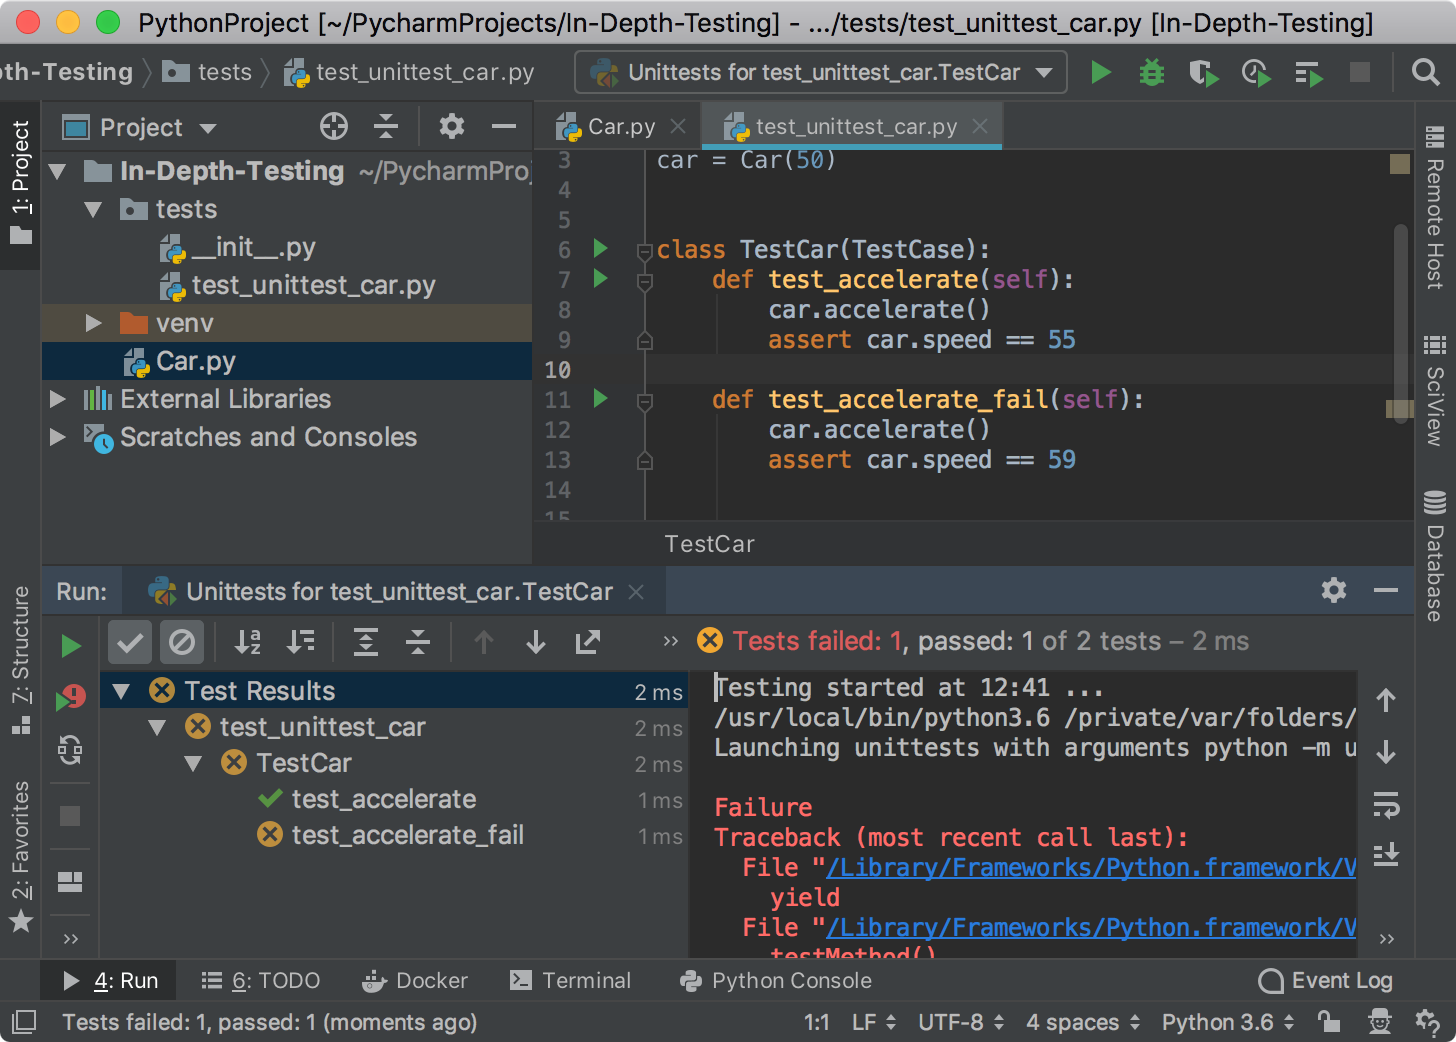
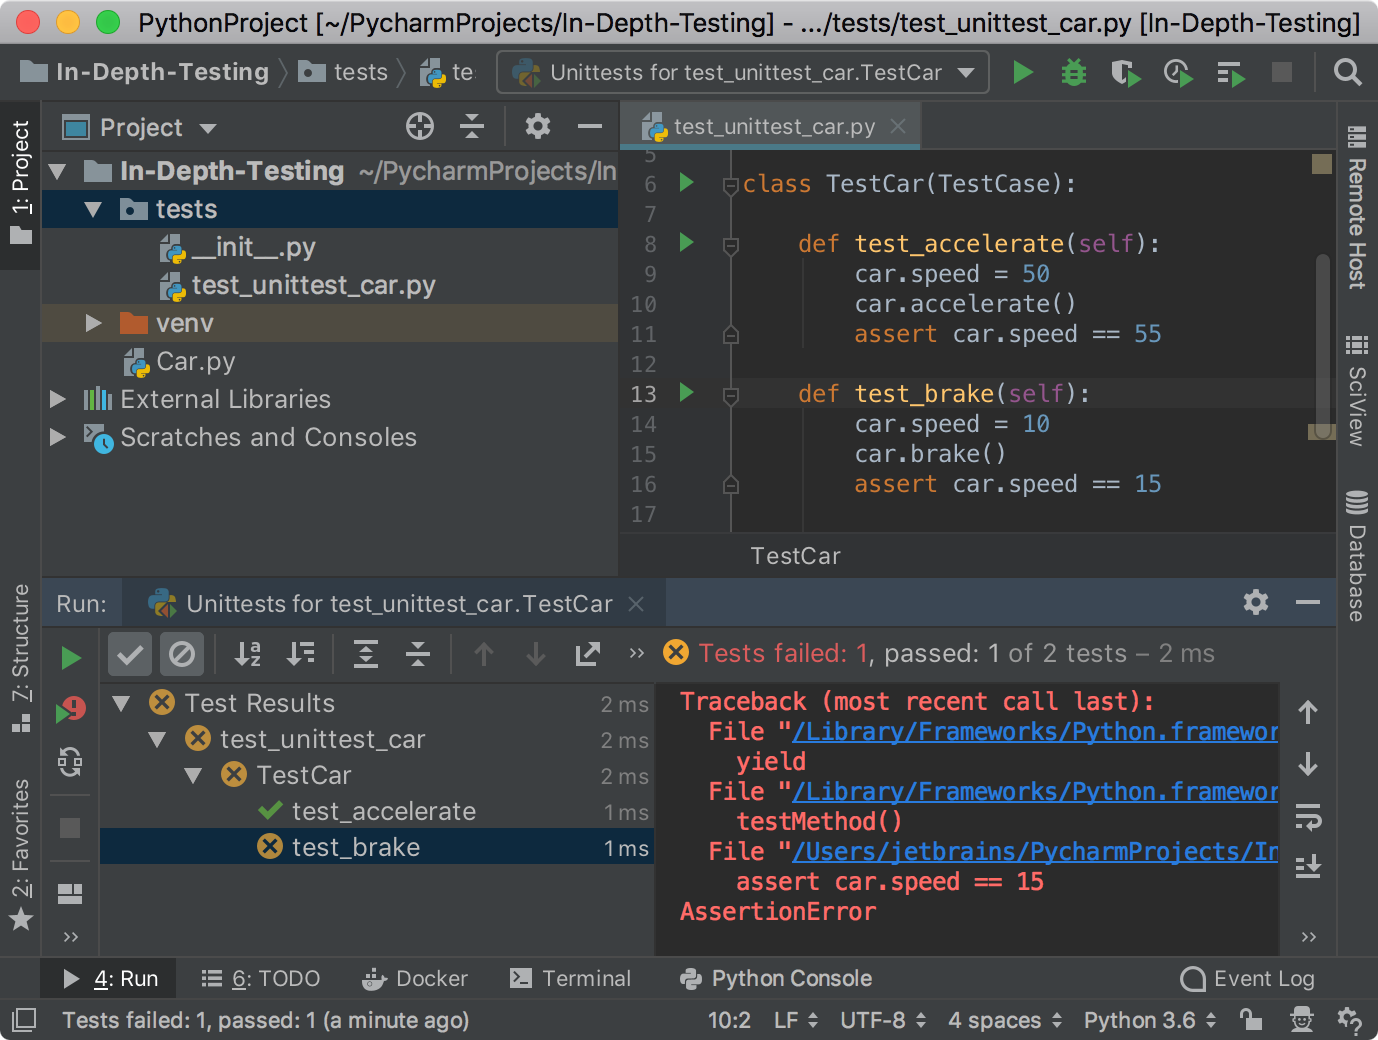
Workflow update; screenshots

diff --git a/src/pages/tutorials/in_depth_testing/create_test/index.md b/src/pages/tutorials/in_depth_testing/create_test/index.md
@@ -19,8 +19,9 @@ In this step, you can create your first test, run it, and evaluate the test run 
 Once the testing framework is selected, PyCharm takes care of test generating so that you can 
 create your tests almost automatically:
 
-1. In your application, place the caret on the function you want to test. Then press 
-`Shift-Ctrl-T` (Win/Linux) or `Shift-Command-T` (macOS). 
+1. In the **Editor**, place the caret on the function of `Car.py` you want to test. Then press 
+`Shift-Ctrl-T` (Win/Linux) or `Shift-Command-T` (macOS). Alternatively, you can right-click and select
+**Go to | Test** from the context menu, then select **Create New Test...".
 
 2. In the **Create test** dialog, specify the path to the directory with the tests, alter or leave intact 
 the suggested test name and test class name, and select the test method (`test_acceleate` in this example). 
@@ -38,25 +39,50 @@ class TestCar(TestCase):
         self.fail()
 ```
 
-4. Replace it with something meaningful:
+4. Let us replace it with some testing logic:
 
 ```python
 from unittest import TestCase
 from Car import Car
-car = Car(50)
+car = Car()
  
  
 class TestCar(TestCase):
     def test_accelerate(self):
+        car.speed = 50
         car.accelerate()
         assert car.speed == 55
-
-    def test_accelerate_fail(self):
-        car.accelerate()
-        assert car.speed == 59
 ```
 
 This test checks if `speed` equals 55 after the `accelerate` function is executed.
+Note that when you start typing `car.`, PyCharm provides the completion list with the 
+available parameter and functions of the `Car` class.
 
-# Navigate to Test or Test Subject
-TODO
+![Code completion](screenshots/test_code_completion.png)
+
+5. Now enhance the test a bit and create yet another function to test the `brake` function of the 
+`Car.py` application.
+
+```python
+from unittest import TestCase
+from Car import Car
+car = Car()
+ 
+ 
+class TestCar(TestCase):
+    def test_accelerate(self):
+        car.speed = 50
+        car.accelerate()
+        assert car.speed == 55
+        
+    def test_brake(self):
+        car.speed = 10
+        car.brake()
+        assert car.speed == 15
+```
+
+6. To verify that the `test_brake` function tests the `Car.brake` function, let's jump to the test subject.
+Place the caret on the line `def test.brake(self):`, right-click, and select **Go to|Test Subject**.
+Ensure that you're navigated to the proper place of the `Car.py` file.
+
+Now you are ready to execute the newly created tests.

diff --git a/src/pages/tutorials/in_depth_testing/run_test/index.md b/src/pages/tutorials/in_depth_testing/run_test/index.md
@@ -24,12 +24,12 @@ In this step, you learn how to run tests and evaluate the execution results.
 
 The easiest way to execute the test is to press `Shift-10` (Win/Linux) or `Ctrl-R` (macOS).
 The **Run** tool window opens and shows the test execution status:
-![Run test](screenshots/test_run_test.png) 
-
-Although the very first test is quite simple, you can obtain the detailed information about the 
-test execution in the **Test Runner** tab.
 
 ![Failed test](screenshots/test_run_test_fail.png)
+
+Although the very first test is quite simple, you can obtain the detailed information about the 
+test execution in the **Test Runner** tab. One of two tests fails. The assertion error is reported for 
+`car.speed == 15`.
 
 Examine the **Test Runner** tab of the **Run** window.
 It has two toolbars to perform various actions with tests:
@@ -38,10 +38,23 @@ It has two toolbars to perform various actions with tests:
  - The <a href="https://www.jetbrains.com/help/pycharm/test-runner-tab.html#testingToolbar" target="_blank">Testing toolbar</a>
   the top (horizontal) toolbar that  
 
+Now modify the `test_brake` function to pass the test:
+
+```python
+def test_brake(self):    
+    car.speed = 10
+    car.brake()
+    assert car.speed == 5
+```
+This change should make the test successful. There is no need to rerun all tests in the `TestCar` class.
 To run each test function separately, you can opt to an alternative way for executing tests and
 scripts in PyCharm - clicking the corresponding **Run** icon in the left gutter of the **Editor**
 
  ![Run test using the icon in the left gutter](screenshots/test_run_menu.png)
+
+The **Test runner** tab shows that the test passed without any assertion errors. 
+
+![Run test](screenshots/test_run_test.png)
 
 # Rerun tests automatically
 TODO
